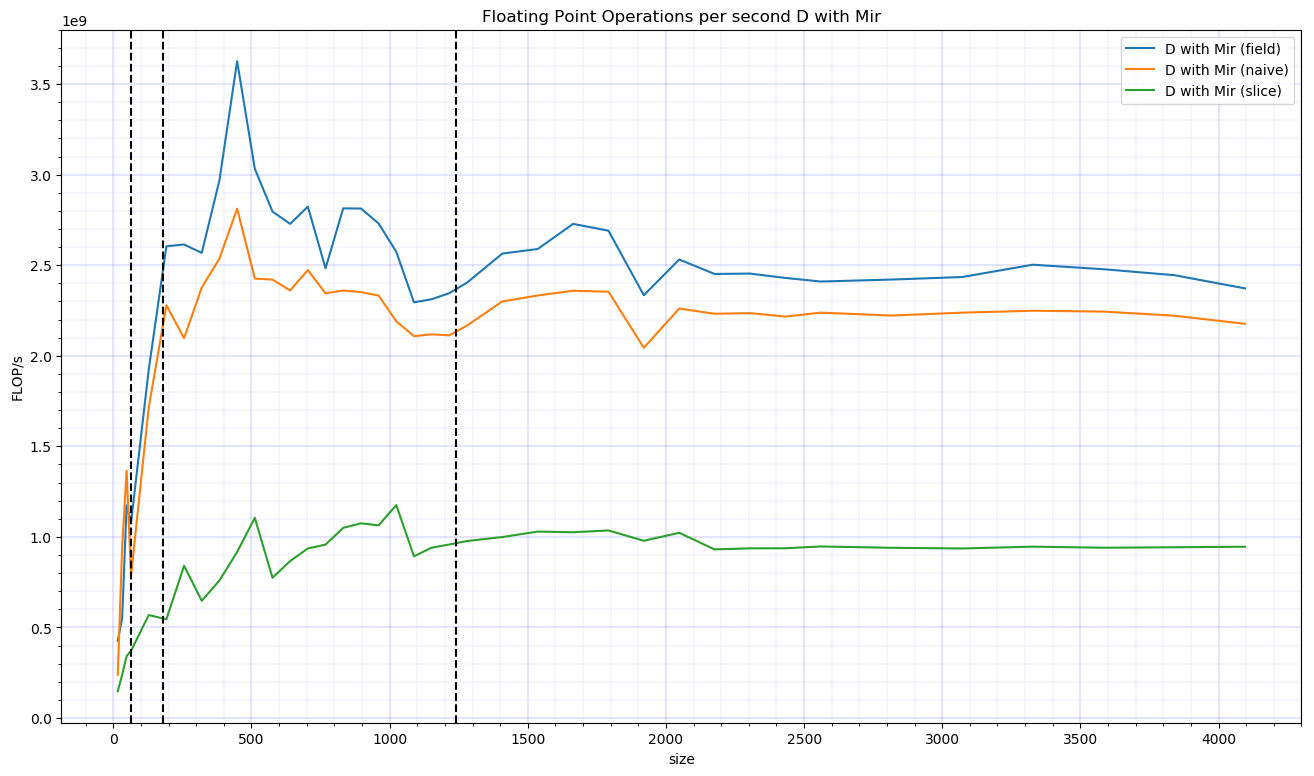
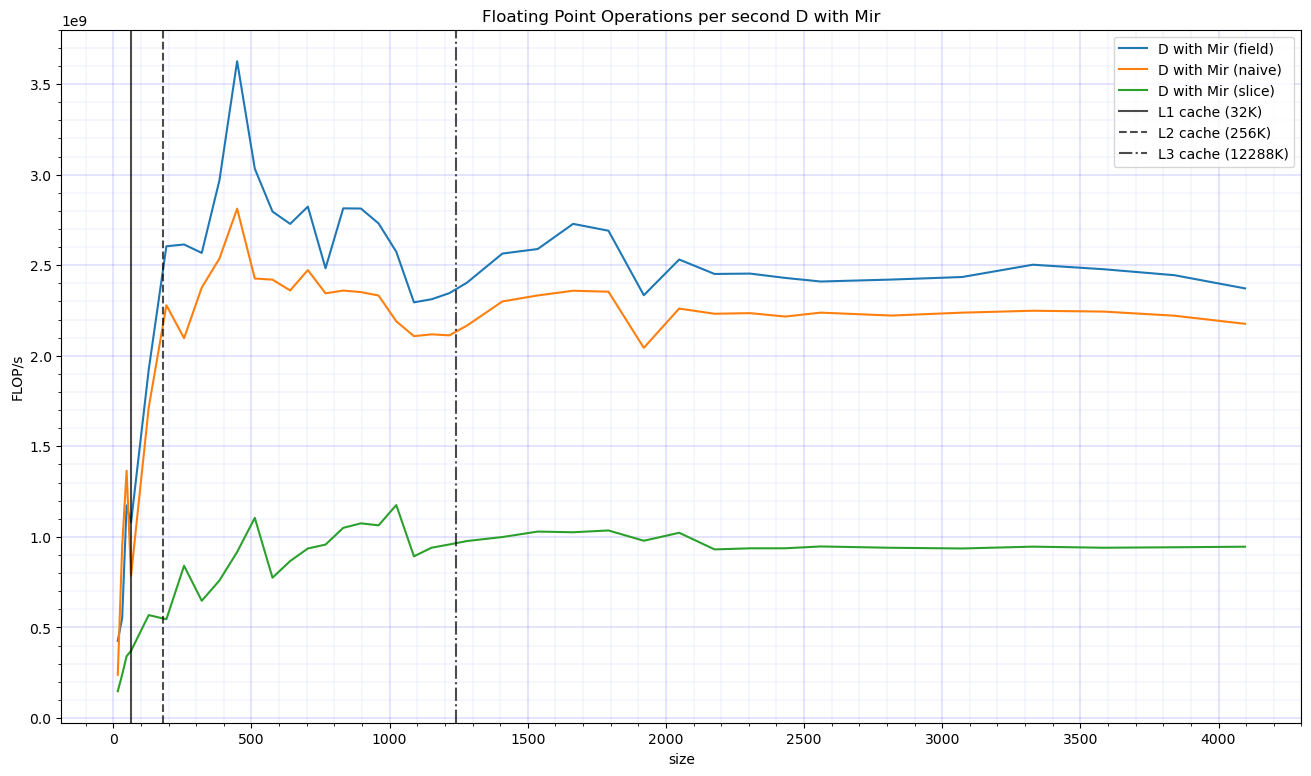
added a legend for cache lines

diff --git a/scripts/data.py b/scripts/data.py
@@ -82,21 +82,39 @@ def plot_cache_lines(fig):
     def cache2size(x):
         return np.sqrt(x / 8)
 
-    fig.axvline(cache2size(l1), color='black', ls='--')
-    fig.axvline(cache2size(l2), color='black', ls='--')
-    fig.axvline(cache2size(l3), color='black', ls='--')
+    fig.axvline(
+        cache2size(l1),
+        color='black',
+        ls='-',
+        label='L1 cache (32K) ',
+        alpha=0.7)
+    fig.axvline(
+        cache2size(l2),
+        color='black',
+        ls='--',
+        label='L2 cache (256K)',
+        alpha=0.7)
+    fig.axvline(
+        cache2size(l3),
+        color='black',
+        ls='-.',
+        label='L3 cache (12288K)',
+        alpha=0.7)
 
 
 def plot_membandwidth(fig):
-    # calculation from there https://www.cs.virginia.edu/stream/ref.html
-    # take scale value and divide by 16 since it produces 1 flops per 24 byte
-    # writen
-    # mem_band = 22490.3 * 1e6  # convert from MB/s to B/s
-    # take triad value and divide by 16 since it produces 1 flops per 24 byte
+    # calculation from there
+    # https://moodle.rrze.uni-erlangen.de/pluginfile.php/16786/mod_resource/content/1/09_06_04-2020-PTfS.pdf
+    # take triad value and divide by 16 since it produces 2 flops per 32 byte
     # writen
     # convert Triad * 4/3 (write-allocate) from MB/s to B/s
-    mem_band = 25104.3 * 4 / 3 * 1e6
-    fig.axhline(mem_band / 12, color='black', ls=':')
+    mem_band = 25104.3 * (4 / 3) * 1e6
+    fig.axhline(
+        mem_band / 16,
+        color='black',
+        ls=':',
+        label='memory bandwidth',
+        alpha=0.7)
 
 
 def subplots(frames, base_path, column):
@@ -145,11 +163,11 @@ def plot(frames, func, base_path, title):
     plt.title(title)
     for name, df in frames:
         func(df, name)
-    plt.legend()
     plt.minorticks_on()
     plt.grid(color='b', linestyle='-', linewidth=0.3, alpha=0.5, which='major')
     plt.grid(color='b', linestyle='-', linewidth=0.1, alpha=0.5, which='minor')
     plot_cache_lines(plt)
+    plt.legend()
 
     plt.savefig(f'{base_path}_{func.__name__}.png', bbox_inches='tight')
 
